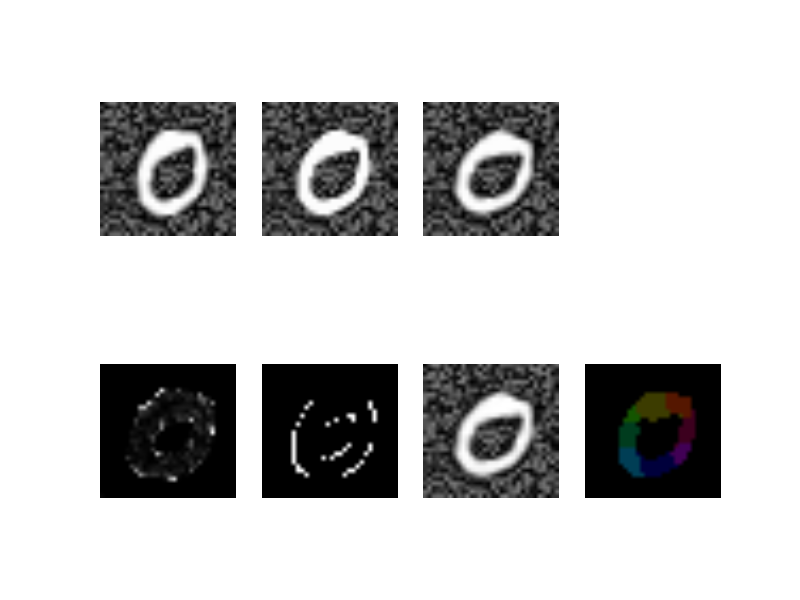
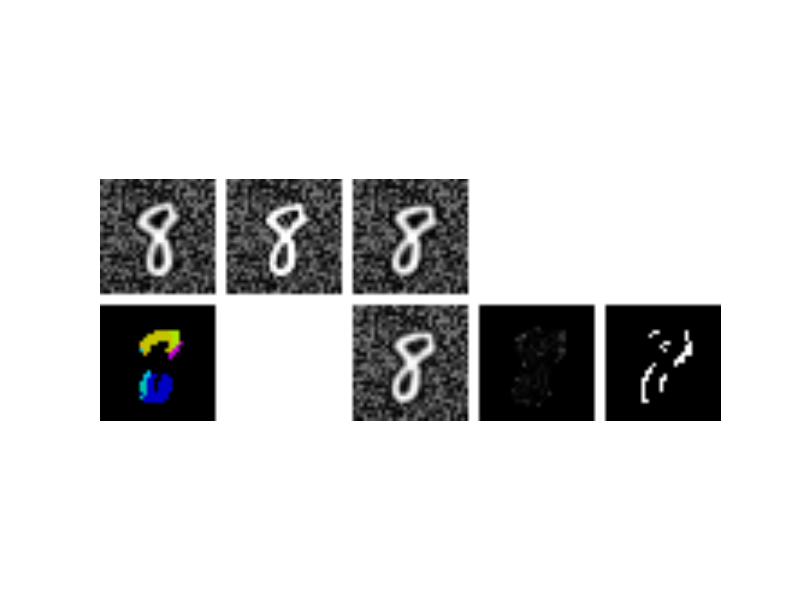
better visualization exp013

diff --git a/exp013/main.py b/exp013/main.py
@@ -1,17 +1,16 @@
 import os
 import numpy
-import cv2
 import logging
 import torch
 import torch.nn as nn
 import torch.optim as optim
 from torch.autograd import Variable
 import torch.nn.functional as F
-import matplotlib.pyplot as plt
 
 from learning_args import parse_args
 from data import generate_images, motion_dict, load_mnist
 from models import FullyConvNet, FullyConvResNet, UNet
+from visualize import visualize
 logging.basicConfig(format='[%(levelname)s %(asctime)s %(filename)s:%(lineno)s] %(message)s',
                             level=logging.INFO)
 
@@ -55,59 +54,6 @@ def train_supervised(args, model, images, m_dict, reverse_m_dict, m_kernel):
             logging.info('epoch %d, testing', epoch)
             best_test_acc = validate(args, model, images, m_dict, reverse_m_dict, m_kernel, best_test_acc)
     return model
-
-
-def visualize(im1, im2, im3, pred, pred_motion, m_range, m_dict, reverse_m_dict):
-    plt.figure(1)
-    plt.subplot(2,4,1)
-    plt.imshow(im1[0].cpu().data.numpy().squeeze(), cmap='gray')
-    plt.axis('off')
-    plt.subplot(2,4,2)
-    plt.imshow(im2[0].cpu().data.numpy().squeeze(), cmap='gray')
-    plt.axis('off')
-    plt.subplot(2,4,3)
-    plt.imshow(im3[0].cpu().data.numpy().squeeze(), cmap='gray')
-    plt.axis('off')
-    # plt.subplot(2,4,4)
-    # gt_m = label2flow(gt_motion[0].cpu().data.numpy().squeeze(), m_range, reverse_m_dict)
-    # plt.imshow(gt_m)
-    # plt.axis('off')
-    plt.subplot(2,4,6)
-    pred_disappear = pred_motion[0].cpu().data.numpy().squeeze() == len(m_dict)
-    plt.imshow(pred_disappear, cmap='gray')
-    plt.axis('off')
-    plt.subplot(2,4,8)
-    # This line assumes disappeared pixels have motion 0, which should be changed in the future.
-    pred_motion[pred_motion == len(m_dict)] = m_dict[(0, 0)]
-    pred_m = label2flow(pred_motion[0].cpu().data.numpy().squeeze(), m_range, reverse_m_dict)
-    plt.imshow(pred_m)
-    plt.axis('off')
-    plt.subplot(2,4,7)
-    pred_im = pred[0].cpu().data.numpy().squeeze()
-    pred_im[pred_im > 1] = 1
-    pred_im[pred_im < 0] = 0
-    plt.imshow(pred_im, cmap='gray')
-    plt.axis('off')
-    plt.subplot(2,4,5)
-    im_diff = torch.abs(pred - im3)
-    plt.imshow(im_diff[0].cpu().data.numpy().squeeze(), cmap='gray')
-    plt.axis('off')
-    plt.show()
-
-
-def label2flow(motion_label, m_range, reverse_m_dict):
-    motion = numpy.zeros((motion_label.shape[0], motion_label.shape[1], 2))
-    for i in range(motion_label.shape[0]):
-        for j in range(motion_label.shape[1]):
-            motion[i, j, :] = numpy.asarray(reverse_m_dict[motion_label[i, j]])
-    mag, ang = cv2.cartToPolar(motion[..., 0], motion[..., 1])
-    hsv = numpy.zeros((motion.shape[0], motion.shape[1], 3), dtype=float)
-    hsv[..., 0] = ang * 180 / numpy.pi / 2
-    hsv[..., 1] = 255
-    hsv[..., 2] = mag * 255.0 / m_range / numpy.sqrt(2)
-    # hsv[...,2] = cv2.normalize(mag,None,0,255,cv2.NORM_MINMAX)
-    rgb = cv2.cvtColor(hsv.astype(numpy.uint8), cv2.COLOR_HSV2BGR)
-    return rgb
 
 
 def test_supervised(args, model, images, m_dict, reverse_m_dict, m_kernel):

diff --git a/exp013/visualize.py b/exp013/visualize.py
@@ -1,0 +1,77 @@
+import numpy
+import cv2
+import matplotlib.pyplot as plt
+
+
+def visualize(im1, im2, im3, pred, pred_motion, m_range, m_dict, reverse_m_dict):
+    img_size = im1.size(2)
+    width, height = get_img_size(2, 5, img_size)
+    img = numpy.ones((height, width, 3))
+
+    im1 = im1[0].cpu().data.numpy().transpose(1, 2, 0).repeat(3, 2)
+    x1, y1, x2, y2 = get_img_coordinate(1, 1, img_size)
+    img[y1:y2, x1:x2, :] = im1
+
+    im2 = im2[0].cpu().data.numpy().transpose(1, 2, 0).repeat(3, 2)
+    x1, y1, x2, y2 = get_img_coordinate(1, 2, img_size)
+    img[y1:y2, x1:x2, :] = im2
+
+    im3 = im3[0].cpu().data.numpy().transpose(1, 2, 0).repeat(3, 2)
+    x1, y1, x2, y2 = get_img_coordinate(1, 3, img_size)
+    img[y1:y2, x1:x2, :] = im3
+
+    pred = pred[0].cpu().data.numpy().transpose(1, 2, 0).repeat(3, 2)
+    pred[pred > 1] = 1
+    pred[pred < 0] = 0
+    x1, y1, x2, y2 = get_img_coordinate(2, 3, img_size)
+    img[y1:y2, x1:x2, :] = pred
+
+    im_diff = numpy.abs(pred - im3)
+    x1, y1, x2, y2 = get_img_coordinate(2, 4, img_size)
+    img[y1:y2, x1:x2, :] = im_diff
+
+    disappear = pred_motion[0].cpu().data.numpy() == len(m_dict)
+    disappear = disappear.transpose(1, 2, 0).repeat(3, 2)
+    x1, y1, x2, y2 = get_img_coordinate(2, 5, img_size)
+    img[y1:y2, x1:x2, :] = disappear
+
+    # This line assumes disappeared pixels have motion 0, which should be changed in the future.
+    pred_motion[pred_motion == len(m_dict)] = m_dict[(0, 0)]
+    pred_motion = label2flow(pred_motion[0].cpu().data.numpy().squeeze(), m_range, reverse_m_dict)
+    x1, y1, x2, y2 = get_img_coordinate(2, 1, img_size)
+    img[y1:y2, x1:x2, :] = pred_motion
+
+    plt.figure(1)
+    plt.imshow(img)
+    plt.axis('off')
+    plt.show()
+
+
+def get_img_size(n_row, n_col, img_size):
+    height = n_row * img_size + (n_row - 1) * int(img_size/10)
+    width = n_col * img_size + (n_col - 1) * int(img_size/10)
+    return width, height
+
+
+def get_img_coordinate(row, col, img_size):
+    y1 = (row - 1) * img_size + (row - 1) * int(img_size/10)
+    y2 = y1 + img_size
+    x1 = (col - 1) * img_size + (col - 1) * int(img_size/10)
+    x2 = x1 + img_size
+    return x1, y1, x2, y2
+
+
+def label2flow(motion_label, m_range, reverse_m_dict):
+    motion = numpy.zeros((motion_label.shape[0], motion_label.shape[1], 2))
+    for i in range(motion_label.shape[0]):
+        for j in range(motion_label.shape[1]):
+            motion[i, j, :] = numpy.asarray(reverse_m_dict[motion_label[i, j]])
+    mag, ang = cv2.cartToPolar(motion[..., 0], motion[..., 1])
+    hsv = numpy.zeros((motion.shape[0], motion.shape[1], 3), dtype=float)
+    hsv[..., 0] = ang * 180 / numpy.pi / 2
+    hsv[..., 1] = 255
+    hsv[..., 2] = mag * 255.0 / m_range / numpy.sqrt(2)
+    # hsv[...,2] = cv2.normalize(mag,None,0,255,cv2.NORM_MINMAX)
+    rgb = cv2.cvtColor(hsv.astype(numpy.uint8), cv2.COLOR_HSV2BGR)
+    return rgb
+
